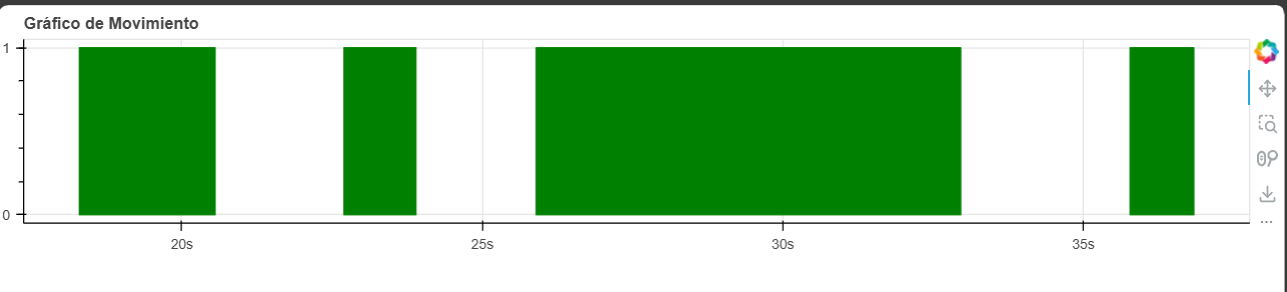
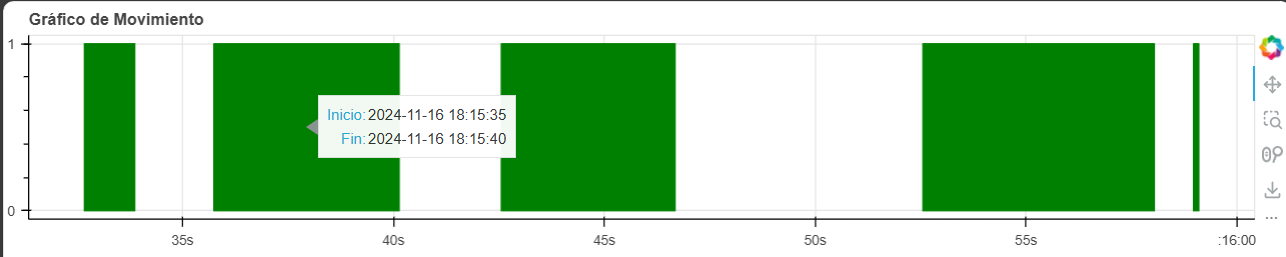
Actualiza Times.csv con nuevos registros de tiempos de detección y mejora el script de visualización en plotting.py para incluir herramientas de hover y formateo de fechas en el gráfico de movimiento.

diff --git a/Graph.html b/Graph.html
@@ -18,10 +18,10 @@
     </script>
   </head>
   <body>
-    <div id="ba3c53cc-91c5-4984-b34a-ddf9a0420411" data-root-id="p1001" style="display: contents;"></div>
+    <div id="f53e8a69-d951-4092-85d0-3b400496275c" data-root-id="p1004" style="display: contents;"></div>
   
-    <script type="application/json" id="f38db939-96db-448e-b760-9f2766c80d49">
-      {"bcc42560-c6fb-462f-9ec5-bd34a4483ce0":{"version":"3.6.1","title":"Bokeh Application","roots":[{"type":"object","name":"Figure","id":"p1001","attributes":{"width":500,"height":200,"sizing_mode":"stretch_width","x_range":{"type":"object","name":"DataRange1d","id":"p1002"},"y_range":{"type":"object","name":"DataRange1d","id":"p1003"},"x_scale":{"type":"object","name":"LinearScale","id":"p1011"},"y_scale":{"type":"object","name":"LinearScale","id":"p1012"},"title":{"type":"object","name":"Title","id":"p1004","attributes":{"text":"Gr\u00e1fico de Movimiento"}},"renderers":[{"type":"object","name":"GlyphRenderer","id":"p1055","attributes":{"data_source":{"type":"object","name":"ColumnDataSource","id":"p1049","attributes":{"selected":{"type":"object","name":"Selection","id":"p1050","attributes":{"indices":[],"line_indices":[]}},"selection_policy":{"type":"object","name":"UnionRenderers","id":"p1051"},"data":{"type":"map","entries":[["left",{"type":"ndarray","array":{"type":"bytes","data":"32l3wGAzeUKDlorBYDN5QnWDUsJgM3lCYia8xGAzeUI="},"shape":[4],"dtype":"float64","order":"little"}],["right",{"type":"ndarray","array":{"type":"bytes","data":"LaAEwWAzeUL2dtXBYDN5QqwUDMRgM3lC44P+xGAzeUI="},"shape":[4],"dtype":"float64","order":"little"}]]}}},"view":{"type":"object","name":"CDSView","id":"p1056","attributes":{"filter":{"type":"object","name":"AllIndices","id":"p1057"}}},"glyph":{"type":"object","name":"Quad","id":"p1052","attributes":{"left":{"type":"field","field":"left"},"right":{"type":"field","field":"right"},"bottom":{"type":"value","value":0},"top":{"type":"value","value":1},"line_color":{"type":"value","value":"green"},"fill_color":{"type":"value","value":"green"},"hatch_color":{"type":"value","value":"green"}}},"nonselection_glyph":{"type":"object","name":"Quad","id":"p1053","attributes":{"left":{"type":"field","field":"left"},"right":{"type":"field","field":"right"},"bottom":{"type":"value","value":0},"top":{"type":"value","value":1},"line_color":{"type":"value","value":"green"},"line_alpha":{"type":"value","value":0.1},"fill_color":{"type":"value","value":"green"},"fill_alpha":{"type":"value","value":0.1},"hatch_color":{"type":"value","value":"green"},"hatch_alpha":{"type":"value","value":0.1}}},"muted_glyph":{"type":"object","name":"Quad","id":"p1054","attributes":{"left":{"type":"field","field":"left"},"right":{"type":"field","field":"right"},"bottom":{"type":"value","value":0},"top":{"type":"value","value":1},"line_color":{"type":"value","value":"green"},"line_alpha":{"type":"value","value":0.2},"fill_color":{"type":"value","value":"green"},"fill_alpha":{"type":"value","value":0.2},"hatch_color":{"type":"value","value":"green"},"hatch_alpha":{"type":"value","value":0.2}}}}}],"toolbar":{"type":"object","name":"Toolbar","id":"p1010","attributes":{"tools":[{"type":"object","name":"PanTool","id":"p1035"},{"type":"object","name":"WheelZoomTool","id":"p1036","attributes":{"renderers":"auto"}},{"type":"object","name":"BoxZoomTool","id":"p1037","attributes":{"overlay":{"type":"object","name":"BoxAnnotation","id":"p1038","attributes":{"syncable":false,"line_color":"black","line_alpha":1.0,"line_width":2,"line_dash":[4,4],"fill_color":"lightgrey","fill_alpha":0.5,"level":"overlay","visible":false,"left":{"type":"number","value":"nan"},"right":{"type":"number","value":"nan"},"top":{"type":"number","value":"nan"},"bottom":{"type":"number","value":"nan"},"left_units":"canvas","right_units":"canvas","top_units":"canvas","bottom_units":"canvas","handles":{"type":"object","name":"BoxInteractionHandles","id":"p1044","attributes":{"all":{"type":"object","name":"AreaVisuals","id":"p1043","attributes":{"fill_color":"white","hover_fill_color":"lightgray"}}}}}}}},{"type":"object","name":"SaveTool","id":"p1045"},{"type":"object","name":"ResetTool","id":"p1046"},{"type":"object","name":"HelpTool","id":"p1047"}]}},"left":[{"type":"object","name":"LinearAxis","id":"p1030","attributes":{"ticker":{"type":"object","name":"SingleIntervalTicker","id":"p1048","attributes":{"interval":1}},"formatter":{"type":"object","name":"BasicTickFormatter","id":"p1032"},"major_label_policy":{"type":"object","name":"AllLabels","id":"p1033"}}}],"below":[{"type":"object","name":"DatetimeAxis","id":"p1013","attributes":{"ticker":{"type":"object","name":"DatetimeTicker","id":"p1014","attributes":{"num_minor_ticks":5,"tickers":[{"type":"object","name":"AdaptiveTicker","id":"p1015","attributes":{"num_minor_ticks":0,"mantissas":[1,2,5],"max_interval":500.0}},{"type":"object","name":"AdaptiveTicker","id":"p1016","attributes":{"num_minor_ticks":0,"base":60,"mantissas":[1,2,5,10,15,20,30],"min_interval":1000.0,"max_interval":1800000.0}},{"type":"object","name":"AdaptiveTicker","id":"p1017","attributes":{"num_minor_ticks":0,"base":24,"mantissas":[1,2,4,6,8,12],"min_interval":3600000.0,"max_interval":43200000.0}},{"type":"object","name":"DaysTicker","id":"p1018","attributes":{"days":[1,2,3,4,5,6,7,8,9,10,11,12,13,14,15,16,17,18,19,20,21,22,23,24,25,26,27,28,29,30,31]}},{"type":"object","name":"DaysTicker","id":"p1019","attributes":{"days":[1,4,7,10,13,16,19,22,25,28]}},{"type":"object","name":"DaysTicker","id":"p1020","attributes":{"days":[1,8,15,22]}},{"type":"object","name":"DaysTicker","id":"p1021","attributes":{"days":[1,15]}},{"type":"object","name":"MonthsTicker","id":"p1022","attributes":{"months":[0,1,2,3,4,5,6,7,8,9,10,11]}},{"type":"object","name":"MonthsTicker","id":"p1023","attributes":{"months":[0,2,4,6,8,10]}},{"type":"object","name":"MonthsTicker","id":"p1024","attributes":{"months":[0,4,8]}},{"type":"object","name":"MonthsTicker","id":"p1025","attributes":{"months":[0,6]}},{"type":"object","name":"YearsTicker","id":"p1026"}]}},"formatter":{"type":"object","name":"DatetimeTickFormatter","id":"p1027"},"major_label_policy":{"type":"object","name":"AllLabels","id":"p1028"}}}],"center":[{"type":"object","name":"Grid","id":"p1029","attributes":{"axis":{"id":"p1013"}}},{"type":"object","name":"Grid","id":"p1034","attributes":{"dimension":1,"axis":{"id":"p1030"}}}]}}]}}
+    <script type="application/json" id="c3ce39b1-4195-4718-9104-2a0096636137">
+      {"bcb68e85-51a9-414e-87d9-efee7e8b16a1":{"version":"3.6.1","title":"Bokeh Application","roots":[{"type":"object","name":"Figure","id":"p1004","attributes":{"width":500,"height":200,"sizing_mode":"stretch_width","x_range":{"type":"object","name":"DataRange1d","id":"p1005"},"y_range":{"type":"object","name":"DataRange1d","id":"p1006"},"x_scale":{"type":"object","name":"LinearScale","id":"p1014"},"y_scale":{"type":"object","name":"LinearScale","id":"p1015"},"title":{"type":"object","name":"Title","id":"p1007","attributes":{"text":"Gr\u00e1fico de Movimiento"}},"renderers":[{"type":"object","name":"GlyphRenderer","id":"p1059","attributes":{"data_source":{"type":"object","name":"ColumnDataSource","id":"p1001","attributes":{"selected":{"type":"object","name":"Selection","id":"p1002","attributes":{"indices":[],"line_indices":[]}},"selection_policy":{"type":"object","name":"UnionRenderers","id":"p1003"},"data":{"type":"map","entries":[["index",{"type":"ndarray","array":{"type":"bytes","data":"AAAAAAEAAAACAAAAAwAAAAQAAAA="},"shape":[5],"dtype":"int32","order":"little"}],["Inicio",{"type":"ndarray","array":{"type":"bytes","data":"DhtE/2IzeUKD+gMAYzN5QhD8rQFjM3lCO7UeBGMzeULpuK8FYzN5Qg=="},"shape":[5],"dtype":"float64","order":"little"}],["Fin",{"type":"ndarray","array":{"type":"bytes","data":"edWO/2IzeULXvRYBYzN5Qn+YrwJjM3lCgdF1BWMzeUK0vLcFYzN5Qg=="},"shape":[5],"dtype":"float64","order":"little"}],["Inicio_s",{"type":"ndarray","array":["2024-11-16 18:15:32","2024-11-16 18:15:35","2024-11-16 18:15:42","2024-11-16 18:15:52","2024-11-16 18:15:58"],"shape":[5],"dtype":"object","order":"little"}],["Fin_s",{"type":"ndarray","array":["2024-11-16 18:15:33","2024-11-16 18:15:40","2024-11-16 18:15:46","2024-11-16 18:15:58","2024-11-16 18:15:59"],"shape":[5],"dtype":"object","order":"little"}]]}}},"view":{"type":"object","name":"CDSView","id":"p1060","attributes":{"filter":{"type":"object","name":"AllIndices","id":"p1061"}}},"glyph":{"type":"object","name":"Quad","id":"p1056","attributes":{"left":{"type":"field","field":"Inicio"},"right":{"type":"field","field":"Fin"},"bottom":{"type":"value","value":0},"top":{"type":"value","value":1},"line_color":{"type":"value","value":"green"},"fill_color":{"type":"value","value":"green"},"hatch_color":{"type":"value","value":"green"}}},"nonselection_glyph":{"type":"object","name":"Quad","id":"p1057","attributes":{"left":{"type":"field","field":"Inicio"},"right":{"type":"field","field":"Fin"},"bottom":{"type":"value","value":0},"top":{"type":"value","value":1},"line_color":{"type":"value","value":"green"},"line_alpha":{"type":"value","value":0.1},"fill_color":{"type":"value","value":"green"},"fill_alpha":{"type":"value","value":0.1},"hatch_color":{"type":"value","value":"green"},"hatch_alpha":{"type":"value","value":0.1}}},"muted_glyph":{"type":"object","name":"Quad","id":"p1058","attributes":{"left":{"type":"field","field":"Inicio"},"right":{"type":"field","field":"Fin"},"bottom":{"type":"value","value":0},"top":{"type":"value","value":1},"line_color":{"type":"value","value":"green"},"line_alpha":{"type":"value","value":0.2},"fill_color":{"type":"value","value":"green"},"fill_alpha":{"type":"value","value":0.2},"hatch_color":{"type":"value","value":"green"},"hatch_alpha":{"type":"value","value":0.2}}}}}],"toolbar":{"type":"object","name":"Toolbar","id":"p1013","attributes":{"tools":[{"type":"object","name":"PanTool","id":"p1038"},{"type":"object","name":"WheelZoomTool","id":"p1039","attributes":{"renderers":"auto"}},{"type":"object","name":"BoxZoomTool","id":"p1040","attributes":{"overlay":{"type":"object","name":"BoxAnnotation","id":"p1041","attributes":{"syncable":false,"line_color":"black","line_alpha":1.0,"line_width":2,"line_dash":[4,4],"fill_color":"lightgrey","fill_alpha":0.5,"level":"overlay","visible":false,"left":{"type":"number","value":"nan"},"right":{"type":"number","value":"nan"},"top":{"type":"number","value":"nan"},"bottom":{"type":"number","value":"nan"},"left_units":"canvas","right_units":"canvas","top_units":"canvas","bottom_units":"canvas","handles":{"type":"object","name":"BoxInteractionHandles","id":"p1047","attributes":{"all":{"type":"object","name":"AreaVisuals","id":"p1046","attributes":{"fill_color":"white","hover_fill_color":"lightgray"}}}}}}}},{"type":"object","name":"SaveTool","id":"p1048"},{"type":"object","name":"ResetTool","id":"p1049"},{"type":"object","name":"HelpTool","id":"p1050"},{"type":"object","name":"HoverTool","id":"p1052","attributes":{"renderers":"auto","tooltips":[["Inicio","@Inicio_s"],["Fin","@Fin_s"]]}}]}},"left":[{"type":"object","name":"LinearAxis","id":"p1033","attributes":{"ticker":{"type":"object","name":"SingleIntervalTicker","id":"p1051","attributes":{"interval":1}},"formatter":{"type":"object","name":"BasicTickFormatter","id":"p1035"},"major_label_policy":{"type":"object","name":"AllLabels","id":"p1036"}}}],"below":[{"type":"object","name":"DatetimeAxis","id":"p1016","attributes":{"ticker":{"type":"object","name":"DatetimeTicker","id":"p1017","attributes":{"num_minor_ticks":5,"tickers":[{"type":"object","name":"AdaptiveTicker","id":"p1018","attributes":{"num_minor_ticks":0,"mantissas":[1,2,5],"max_interval":500.0}},{"type":"object","name":"AdaptiveTicker","id":"p1019","attributes":{"num_minor_ticks":0,"base":60,"mantissas":[1,2,5,10,15,20,30],"min_interval":1000.0,"max_interval":1800000.0}},{"type":"object","name":"AdaptiveTicker","id":"p1020","attributes":{"num_minor_ticks":0,"base":24,"mantissas":[1,2,4,6,8,12],"min_interval":3600000.0,"max_interval":43200000.0}},{"type":"object","name":"DaysTicker","id":"p1021","attributes":{"days":[1,2,3,4,5,6,7,8,9,10,11,12,13,14,15,16,17,18,19,20,21,22,23,24,25,26,27,28,29,30,31]}},{"type":"object","name":"DaysTicker","id":"p1022","attributes":{"days":[1,4,7,10,13,16,19,22,25,28]}},{"type":"object","name":"DaysTicker","id":"p1023","attributes":{"days":[1,8,15,22]}},{"type":"object","name":"DaysTicker","id":"p1024","attributes":{"days":[1,15]}},{"type":"object","name":"MonthsTicker","id":"p1025","attributes":{"months":[0,1,2,3,4,5,6,7,8,9,10,11]}},{"type":"object","name":"MonthsTicker","id":"p1026","attributes":{"months":[0,2,4,6,8,10]}},{"type":"object","name":"MonthsTicker","id":"p1027","attributes":{"months":[0,4,8]}},{"type":"object","name":"MonthsTicker","id":"p1028","attributes":{"months":[0,6]}},{"type":"object","name":"YearsTicker","id":"p1029"}]}},"formatter":{"type":"object","name":"DatetimeTickFormatter","id":"p1030"},"major_label_policy":{"type":"object","name":"AllLabels","id":"p1031"}}}],"center":[{"type":"object","name":"Grid","id":"p1032","attributes":{"axis":{"id":"p1016"}}},{"type":"object","name":"Grid","id":"p1037","attributes":{"dimension":1,"axis":{"id":"p1033"}}}]}}]}}
     </script>
     <script type="text/javascript">
       (function() {
@@ -29,8 +29,8 @@
           Bokeh.safely(function() {
             (function(root) {
               function embed_document(root) {
-              const docs_json = document.getElementById('f38db939-96db-448e-b760-9f2766c80d49').textContent;
-              const render_items = [{"docid":"bcc42560-c6fb-462f-9ec5-bd34a4483ce0","roots":{"p1001":"ba3c53cc-91c5-4984-b34a-ddf9a0420411"},"root_ids":["p1001"]}];
+              const docs_json = document.getElementById('c3ce39b1-4195-4718-9104-2a0096636137').textContent;
+              const render_items = [{"docid":"bcb68e85-51a9-414e-87d9-efee7e8b16a1","roots":{"p1004":"f53e8a69-d951-4092-85d0-3b400496275c"},"root_ids":["p1004"]}];
               root.Bokeh.embed.embed_items(docs_json, render_items);
               }
               if (root.Bokeh !== undefined) {

diff --git a/plotting.py b/plotting.py
@@ -1,13 +1,25 @@
 from app import df
 from bokeh.plotting import figure, show, output_file
 from bokeh.models import SingleIntervalTicker
+from bokeh.models import HoverTool, ColumnDataSource
+
+# Se formatean las fechas
+df["Inicio_s"] = df["Inicio"].dt.strftime("%Y-%m-%d %H:%M:%S")
+df["Fin_s"] = df["Fin"].dt.strftime("%Y-%m-%d %H:%M:%S")
+
+# Se crea el origen de datos
+cds = ColumnDataSource(df)
 
 # Se crea el gráfico
 p = figure(x_axis_type='datetime', height=200, width=500, title="Gráfico de Movimiento", sizing_mode="stretch_width")
 p.yaxis.ticker = SingleIntervalTicker(interval=1)
 
+# Se añade la herramienta de hover
+hover = HoverTool(tooltips=[("Inicio", "@Inicio_s"), ("Fin", "@Fin_s")])
+p.add_tools(hover)
+
 # Se dibujan los cuadros
-q = p.quad(left=df["Inicio"], right=df["Fin"], bottom=0, top=1, color="green")
+q = p.quad(left="Inicio", right="Fin", bottom=0, top=1, color="green", source=cds)
 
 # Se guarda el gráfico
 output_file("Graph.html")
